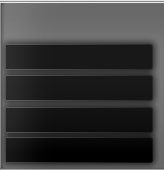
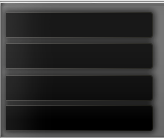
adjustable card container

diff --git a/src/ui/cardcontainer.cpp b/src/ui/cardcontainer.cpp
@@ -3,30 +3,89 @@
 #include "carditem.h"
 #include "engine.h"
 #include "client.h"
+#include "roomscene.h"
 
 #include <QGraphicsScene>
 #include <QGraphicsSceneMouseEvent>
 
 CardContainer::CardContainer()
-    : _m_background("image/system/card-container.png")
+    : _m_background_top(G_ROOM_SKIN.getPixmap(QSanRoomSkin::S_SKIN_KEY_CARD_CONTAINER_TOP)),
+      _m_background_middle(G_ROOM_SKIN.getPixmap(QSanRoomSkin::S_SKIN_KEY_CARD_CONTAINER_MIDDLE)),
+      _m_background_bottom(G_ROOM_SKIN.getPixmap(QSanRoomSkin::S_SKIN_KEY_CARD_CONTAINER_BOTTOM))
 {
-    setTransform(QTransform::fromTranslate(-_m_background.width() / 2, -_m_background.height() / 2), true);
-    _m_boundingRect = QRectF(QPoint(0, 0), _m_background.size());
+    _m_background = NULL;
+    _m_background_seat = NULL;
     setFlag(ItemIsFocusable);
     setFlag(ItemIsMovable);
     close_button = new CloseButton;
     close_button->setParentItem(this);
-    close_button->setPos(517, 21);
     close_button->hide();
     connect(close_button, SIGNAL(clicked()), this, SLOT(clear()));
 }
 
 void CardContainer::paint(QPainter *painter, const QStyleOptionGraphicsItem *, QWidget *) {
-    painter->drawPixmap(0, 0, _m_background);
+    
 }
 
 QRectF CardContainer::boundingRect() const{
     return _m_boundingRect;
+}
+
+void CardContainer::_repaint() {
+    int card_width = G_COMMON_LAYOUT.m_cardNormalWidth;
+    int card_height = G_COMMON_LAYOUT.m_cardNormalHeight;
+    bool one_row = true;
+    const int blank = 3;
+    int width = (card_width + blank) * items.length() - blank + 50;
+    if (width * 1.2 > RoomSceneInstance->sceneRect().width()) {
+        width = (card_width + blank) * (items.length() + 1) - blank + 50;
+        one_row = false;
+    }
+    int middle_height = qMax((one_row ? 1 : 2) * card_height
+        + 70 - _m_background_top.height() - _m_background_bottom.height(), 0);
+
+    _m_boundingRect = QRectF(0, 0, width, _m_background_top.height() + middle_height + _m_background_bottom.height());
+
+    QPixmap pix(width, _m_background_top.height() + middle_height + _m_background_bottom.height());
+    pix.fill(QColor(0, 0, 0, 0));
+    QPainter *painter = new QPainter(&pix);
+    painter->drawPixmap(0, 0, width, _m_background_top.height(), _m_background_top);
+    painter->drawPixmap(0, _m_background_top.height(), width, middle_height, _m_background_middle);
+    painter->drawPixmap(0, _m_background_top.height() + middle_height, width, _m_background_bottom.height(), _m_background_bottom);
+    _m_background = new QGraphicsPixmapItem(this);
+    _m_background->setTransformationMode(Qt::SmoothTransformation);
+    _m_background->setPixmap(pix);
+    _m_background->setParentItem(this);
+
+    int first_row = one_row ? items.length() : (items.length() + 1) / 2;
+
+    _m_background_seat = new QGraphicsPixmapItem(this);
+    _m_background_seat->setTransformationMode(Qt::SmoothTransformation);
+    QPixmap pixmap(width, _m_background_top.height() + middle_height + _m_background_bottom.height());
+    pixmap.fill(QColor(0, 0, 0, 0));
+    QPainter *painter2 = new QPainter(&pixmap);
+
+    for (int i = 0; i < items.length(); ++ i) {
+        int x, y = 0;
+        if (i < first_row) {
+            x = 25 + (card_width + blank) * i;
+            y = 45;
+        } else {
+            if (i % 2 == 1)
+                x = 25 + card_width / 2 + blank / 2 
+                    + (card_width + blank) * (i - first_row);
+            else
+                x = 25 + (card_width + blank) * (i - first_row);
+            y = 45 + card_height + blank;
+        }
+        painter2->drawPixmap(x, y, card_width, card_height, G_ROOM_SKIN.getPixmap(QSanRoomSkin::S_SKIN_KEY_CARD_CONTAINER_FRAME));
+    }
+    _m_background_seat->setPixmap(pixmap);
+    _m_background_seat->setParentItem(this);
+    _m_background_seat->setZValue(-999);
+    _m_background->setZValue(-1000);
+    close_button->setPos(width - 30, 0);
+    update();
 }
 
 void CardContainer::fillCards(const QList<int> &card_ids, const QList<int> &disabled_ids) {
@@ -48,37 +107,36 @@ void CardContainer::fillCards(const QList<int> &card_ids, const QList<int> &disa
     if (card_items.isEmpty())
         card_items = _createCards(card_ids);
 
-    int card_width = G_COMMON_LAYOUT.m_cardNormalWidth;
-    QPointF pos1(30 + card_width / 2, 40 + G_COMMON_LAYOUT.m_cardNormalHeight / 2);
-    QPointF pos2(30 + card_width / 2, 184 + G_COMMON_LAYOUT.m_cardNormalHeight / 2);
-    int skip = 102;
-    qreal whole_width = skip * 4;
     items.append(card_items);
+    _repaint();
     int n = items.length();
+
+    const int blank = 3;
+    int card_width = G_COMMON_LAYOUT.m_cardNormalWidth;
+    int card_height = G_COMMON_LAYOUT.m_cardNormalHeight;
+    bool one_row = true;
+    int width = (card_width + blank) * items.length() - blank + 50;
+    if (width * 1.2 > RoomSceneInstance->sceneRect().width()) {
+        width = (card_width + blank) * (items.length() + 1) - blank + 50;
+        one_row = false;
+    }
+    int first_row = one_row ? items.length() : (items.length() + 1) / 2;
 
     for (int i = 0; i < n; i++) {
         QPointF pos;
-        if (n <= 10) {
-            if (i < 5) {
-                pos = pos1;
-                pos.setX(pos.x() + i * skip);
-            } else {
-                pos = pos2;
-                pos.setX(pos.x() + (i - 5) * skip);
-            }
+        if (i < first_row) {
+            pos.setX(25 + (card_width + blank) * i);
+            pos.setY(45);
         } else {
-            int half = (n + 1) / 2;
-            qreal real_skip = whole_width / (half - 1);
-
-            if (i < half) {
-                pos = pos1;
-                pos.setX(pos.x() + i * real_skip);
-            } else {
-                pos = pos2;
-                pos.setX(pos.x() + (i - half) * real_skip);
-            }
+            if (i % 2 == 1)
+                pos.setX(25 + card_width / 2 + blank / 2 
+                    + (card_width + blank) * (i - first_row));
+            else
+                pos.setX(25 + (card_width + blank) * (i - first_row));
+            pos.setY(45 + card_height + blank);
         }
         CardItem *item = items[i];
+        item->resetTransform();
         item->setPos(pos);
         item->setHomePos(pos);
         item->setOpacity(1.0);
@@ -112,6 +170,9 @@ void CardContainer::clear() {
         if (retained && close_button)
             close_button->show();
     } else {
+        //reset pixmap
+        _m_background->setPixmap(QPixmap());
+        _m_background_seat->setPixmap(QPixmap());
         close_button->hide();
         hide();
     }
@@ -159,7 +220,7 @@ void CardContainer::startChoose() {
     close_button->hide();
     foreach (CardItem *item, items) {
         connect(item, SIGNAL(leave_hover()), this, SLOT(grabItem()));
-        connect(item, SIGNAL(double_clicked()), this, SLOT(chooseItem()));
+        connect(item, SIGNAL(clicked()), this, SLOT(chooseItem()));
     }
 }
 

diff --git a/src/ui/roomscene.cpp b/src/ui/roomscene.cpp
@@ -900,7 +900,7 @@ void RoomScene::updateTable() {
     m_tablePile->setSize(qMax((int)tableRect.width() - _m_roomLayout->m_discardPilePadding * 2,
                          _m_roomLayout->m_discardPileMinWidth), _m_commonLayout->m_cardNormalHeight);
     m_tablePile->adjustCards();
-    card_container->setPos(m_tableCenterPos);
+    card_container->setPos(m_tableCenterPos - QPointF(card_container->boundingRect().width() / 2, card_container->boundingRect().height() / 2));
     guanxing_box->setPos(m_tableCenterPos);
     prompt_box->setPos(m_tableCenterPos);
     pausing_text->setPos(m_tableCenterPos - pausing_text->boundingRect().center());
@@ -3345,6 +3345,7 @@ void RoomScene::speak() {
 void RoomScene::fillCards(const QList<int> &card_ids, const QList<int> &disabled_ids) {
     bringToFront(card_container);
     card_container->fillCards(card_ids, disabled_ids);
+    card_container->setPos(m_tableCenterPos - QPointF(card_container->boundingRect().width() / 2, card_container->boundingRect().height() / 2));
     card_container->show();
 }
 

diff --git a/src/ui/SkinBank.cpp b/src/ui/SkinBank.cpp
@@ -69,6 +69,12 @@ const char *QSanRoomSkin::S_SKIN_KEY_GENERAL_CIRCLE_IMAGE = "generalCircleImage-
 const char *QSanRoomSkin::S_SKIN_KEY_GENERAL_CIRCLE_MASK = "generalCircleMask-%1";
 const char *QSanRoomSkin::S_SKIN_KEY_HIDDEN_MARK = "hiddenMark";
 
+//CardContainer
+const char *QSanRoomSkin::S_SKIN_KEY_CARD_CONTAINER_TOP = "cardContainerTop";
+const char *QSanRoomSkin::S_SKIN_KEY_CARD_CONTAINER_MIDDLE = "cardContainerMiddle";
+const char *QSanRoomSkin::S_SKIN_KEY_CARD_CONTAINER_BOTTOM = "cardContainerBottom";
+const char *QSanRoomSkin::S_SKIN_KEY_CARD_CONTAINER_FRAME = "cardContainerFrame";
+
 // Animations
 const char *QSanRoomSkin::S_SKIN_KEY_ANIMATIONS = "preloads";
 

diff --git a/src/ui/qsanbutton.cpp b/src/ui/qsanbutton.cpp
@@ -11,7 +11,7 @@
 
 QSanButton::QSanButton(QGraphicsItem *parent): QGraphicsObject(parent)
 {
-    _m_state = S_STATE_DISABLED;
+    _m_state = S_STATE_UP;
     _m_style = S_STYLE_PUSH;
     _m_mouseEntered = false;
     setSize(QSize(0, 0));
@@ -22,7 +22,7 @@ QSanButton::QSanButton(QGraphicsItem *parent): QGraphicsObject(parent)
 QSanButton::QSanButton(const QString &groupName, const QString &buttonName, QGraphicsItem *parent)
     : QGraphicsObject(parent)
 {
-    _m_state = S_STATE_DISABLED;
+    _m_state = S_STATE_UP;
     _m_style = S_STYLE_PUSH;
     _m_groupName = groupName;
     _m_buttonName = buttonName;

diff --git a/src/ui/cardcontainer.h b/src/ui/cardcontainer.h
@@ -52,11 +52,13 @@ protected:
 private:
     QList<CardItem *> items;
     CloseButton *close_button;
-    QPixmap _m_background;
+    QPixmap _m_background_top, _m_background_middle, _m_background_bottom;
+    QGraphicsPixmapItem *_m_background, *_m_background_seat;
     QStack<QList<CardItem *> > items_stack;
     QStack<bool> retained_stack;
 
     void _addCardItem(int card_id, const QPointF &pos);
+    void _repaint();
 
 private slots:
     void grabItem();

diff --git a/src/ui/SkinBank.h b/src/ui/SkinBank.h
@@ -363,6 +363,13 @@ public:
     static const char *S_SKIN_KEY_GENERAL_CIRCLE_MASK;
     static const char *S_SKIN_KEY_HIDDEN_MARK;
 
+    //CardContainer
+
+    static const char *S_SKIN_KEY_CARD_CONTAINER_TOP;
+    static const char *S_SKIN_KEY_CARD_CONTAINER_MIDDLE;
+    static const char *S_SKIN_KEY_CARD_CONTAINER_BOTTOM;
+    static const char *S_SKIN_KEY_CARD_CONTAINER_FRAME;
+
     // Animations
     static const char *S_SKIN_KEY_ANIMATIONS;
 
